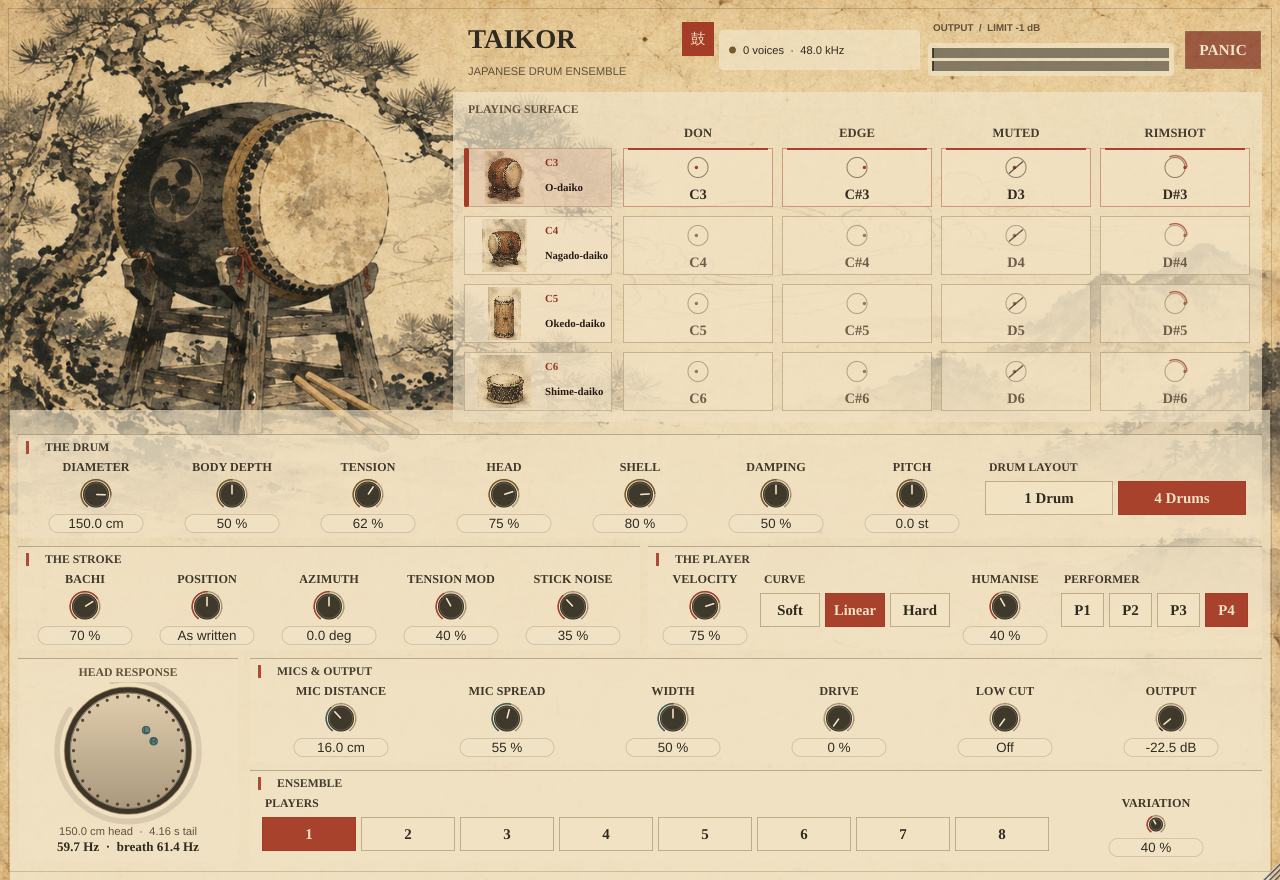
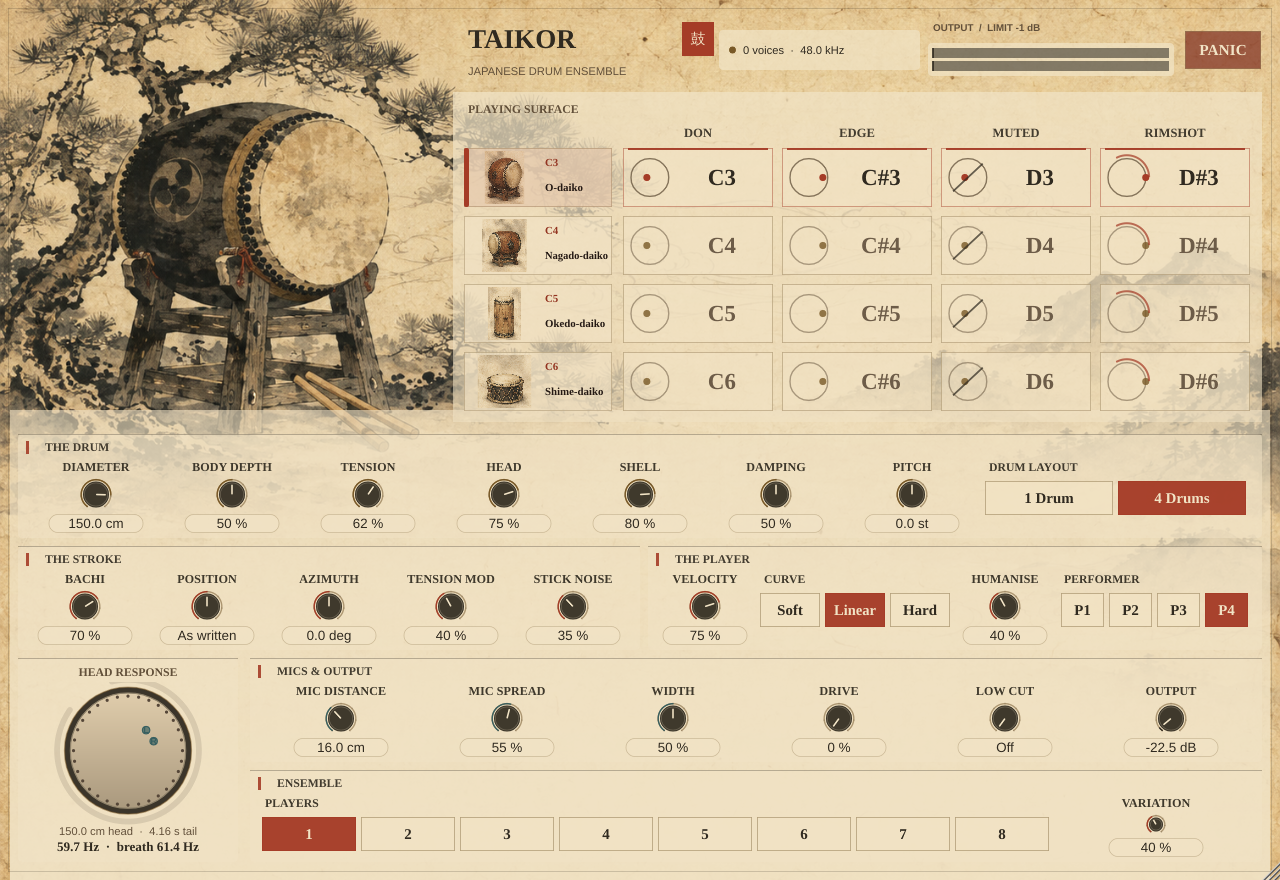
Grid pads: strike map beside a larger note name
Each pad now draws its strike geometry on the left and the note it plays on
the right, both scaled to the pad, instead of a small map above a small
label. Screenshot and ledger refreshed.

Claude-Session: https://claude.ai/code/session_01D3PMbTv11BQjQRiX36EJtT

diff --git a/Source/PluginEditor.cpp b/Source/PluginEditor.cpp
@@ -332,14 +332,17 @@ void TaikorPad::paintButton (juce::Graphics& g, bool isMouseOver, bool isButtonD
         g.drawRect (bounds.reduced (2.0f), 1.5f);
     }
 
-    // A tiny head map replaces three repeated lines of copy. The mark is the
-    // actual strike geometry: centre, rim, muted centre, or head-and-hoop.
-    const auto mapSize = juce::jlimit (18.0f, 27.0f, bounds.getHeight() * 0.34f);
+    // The pad reads as two things side by side: the strike geometry on the
+    // left - centre, rim, muted centre, or head-and-hoop - and the note it
+    // plays on the right, both sized by the pad so they stay legible at any
+    // window size. The map is the actual strike position, not an icon.
+    const auto inner = bounds.reduced (6.0f, 4.0f);
+    const auto mapSize = juce::jlimit (22.0f, 48.0f, inner.getHeight() * 0.74f);
     auto headMap = juce::Rectangle<float> (mapSize, mapSize)
-                       .withCentre ({ bounds.getCentreX(),
-                                      bounds.getY() + bounds.getHeight() * 0.33f });
-    g.setColour (mutedText.withAlpha (selected ? 0.70f : 0.45f));
-    g.drawEllipse (headMap, 1.0f);
+                       .withCentre ({ inner.getX() + mapSize * 0.5f + 2.0f,
+                                      inner.getCentreY() });
+    g.setColour (mutedText.withAlpha (selected ? 0.75f : 0.50f));
+    g.drawEllipse (headMap, 1.4f);
 
     const auto centre = headMap.getCentre();
     auto strikePoint = centre;
@@ -350,16 +353,16 @@ void TaikorPad::paintButton (juce::Graphics& g, bool isMouseOver, bool isButtonD
     else
         strikePoint.x -= mapSize * 0.08f;
 
-    g.setColour (selected ? accentColour : brassColour.withAlpha (0.76f));
-    const auto dot = juce::jmax (3.0f, mapSize * 0.17f);
+    g.setColour (selected ? accentColour : brassColour.withAlpha (0.80f));
+    const auto dot = juce::jmax (4.0f, mapSize * 0.19f);
     g.fillEllipse (strikePoint.x - dot * 0.5f, strikePoint.y - dot * 0.5f,
                    dot, dot);
 
     if (articulation == taikor::Articulation::Tsu)
     {
         g.setColour (textColour.withAlpha (0.72f));
-        g.drawLine (headMap.getX() + 3.0f, headMap.getBottom() - 4.0f,
-                    headMap.getRight() - 3.0f, headMap.getY() + 4.0f, 1.4f);
+        g.drawLine (headMap.getX() + 4.0f, headMap.getBottom() - 5.0f,
+                    headMap.getRight() - 4.0f, headMap.getY() + 5.0f, 1.8f);
     }
     else if (articulation == taikor::Articulation::DonRim)
     {
@@ -367,15 +370,15 @@ void TaikorPad::paintButton (juce::Graphics& g, bool isMouseOver, bool isButtonD
         juce::Path rim;
         rim.addCentredArc (centre.x, centre.y, mapSize * 0.59f, mapSize * 0.59f,
                            0.0f, -0.5f, 1.55f, true);
-        g.strokePath (rim, juce::PathStrokeType (1.5f));
+        g.strokePath (rim, juce::PathStrokeType (2.0f));
     }
 
     g.setColour (selected ? textColour : mutedText.brighter (0.08f));
     g.setFont (displayFont (
-        juce::jlimit (14.0f, 20.0f, bounds.getHeight() * 0.27f),
+        juce::jlimit (18.0f, 30.0f, inner.getHeight() * 0.50f),
         juce::Font::bold));
-    g.drawText (keyText, bounds.withTrimmedTop (bounds.getHeight() * 0.56f)
-                               .reduced (4.0f, 1.0f),
+    g.drawText (keyText,
+                inner.withTrimmedLeft (mapSize + 10.0f),
                 juce::Justification::centred, false);
 
     if (selected)

diff --git a/README.md b/README.md
@@ -78,7 +78,8 @@ Listen to the instrument's own synthesized performances:
   translucent washi wash, every label and readout is larger, Velocity Curve
   is a three-position Curve switch, Ensemble Size an eight-position Players
   switch, and Resonant Head, Air Coupling and Shell Resonance stay host
-  parameters without a knob.
+  parameters without a knob. Each grid pad shows its strike map beside its
+  note name, both sized to the pad.
 
 ### 2026-09-06
 
